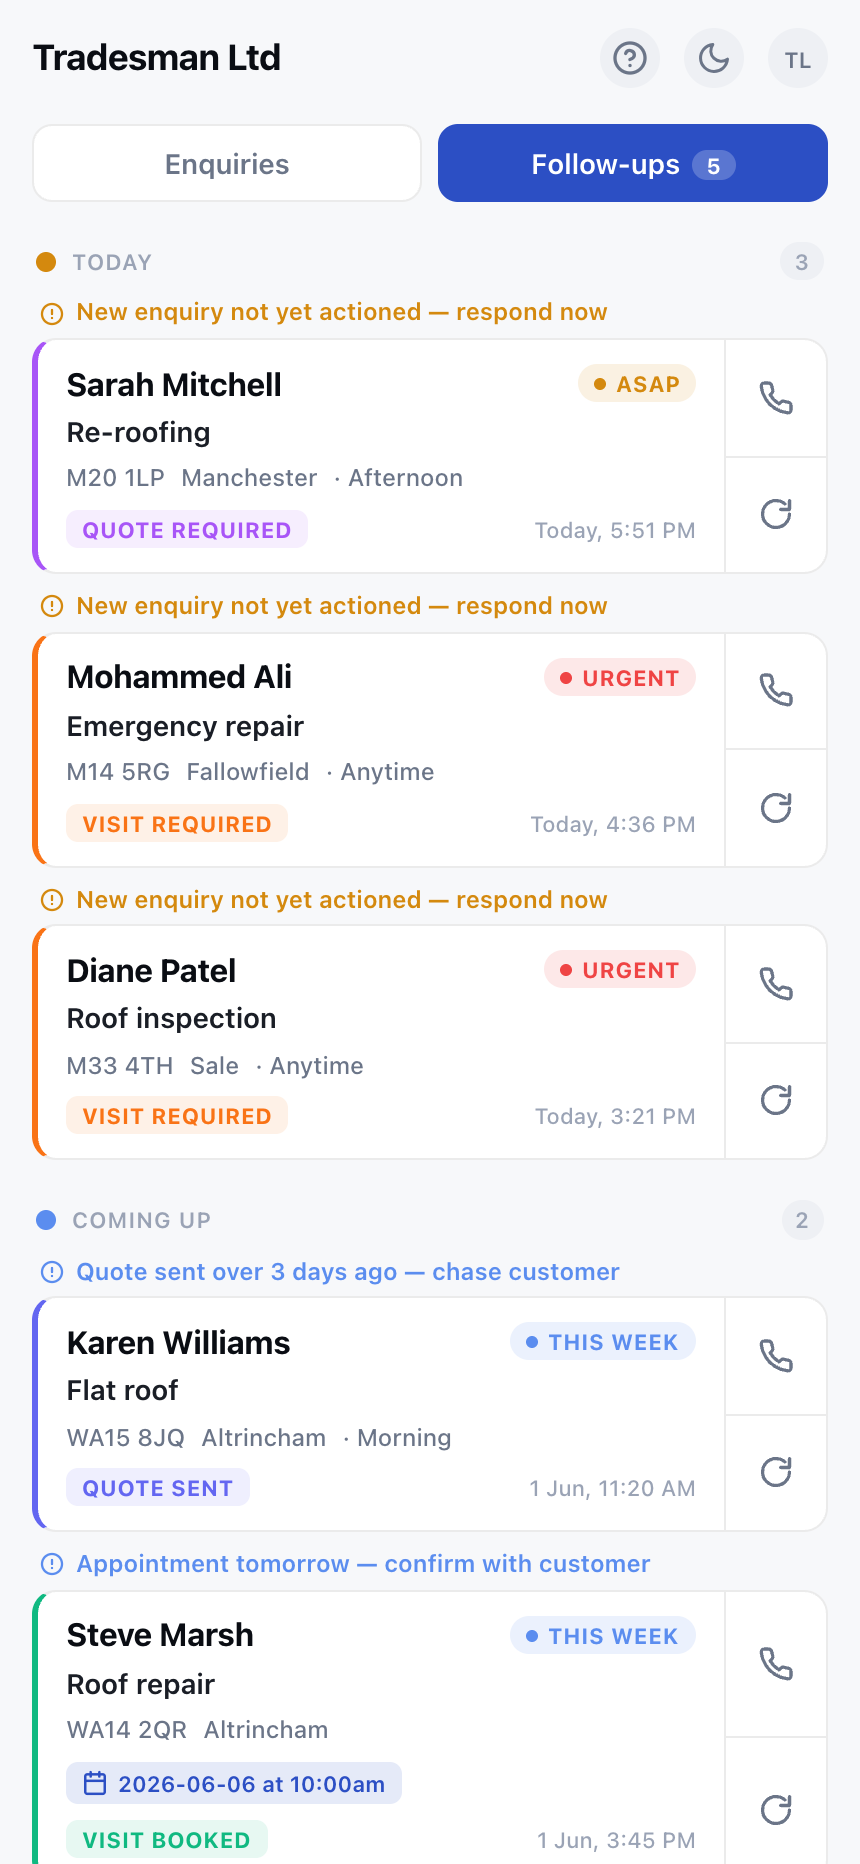
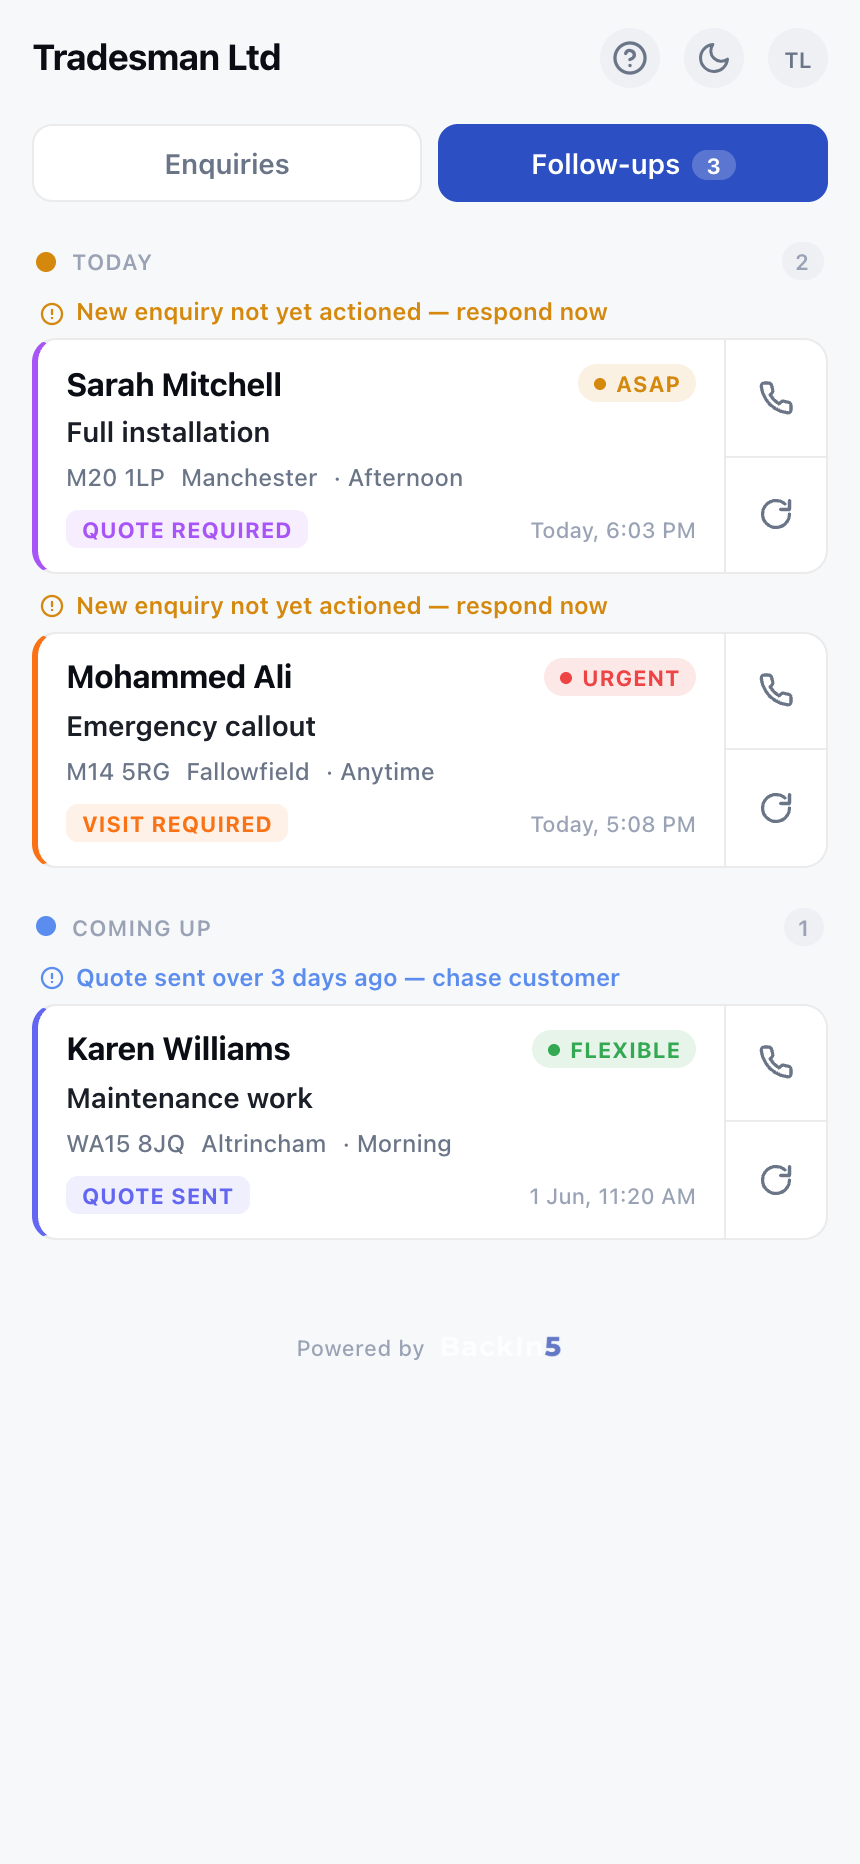
Tighten phone-shot grid, replace channels fake quote card with real screenshot, refresh shots
- Three-shot grid now 3-col on desktop, tighter gap (24px), smaller phone frames (210px max)
- Wide / centred shot reduced to 200px so trio reads as one group
- Channels section: replaced fake 'New Quote - Dashboard' card with real
  main-overview shot in a small phone frame
- New sts-phone-frame-sm variant for in-line uses
- Mobile-first responsive: 2 cols on tablet, 1 col on phone
- Refreshed all 8 screenshots with new 5-enquiry generic demo

diff --git a/see-the-system.css b/see-the-system.css
@@ -871,11 +871,19 @@
    Dashboard screenshots — Sts* shot grid
    ============================================================ */
 .sts-shots-grid {
-  margin-top: 48px;
+  margin: 36px auto 0;
   display: grid;
-  grid-template-columns: repeat(2, 1fr);
-  gap: 40px;
+  grid-template-columns: repeat(3, 1fr);
+  gap: 24px 18px;
   align-items: start;
+  max-width: 920px;
+}
+
+/* Two-column variant for the dashboard band */
+.sts-shots-grid-2 {
+  grid-template-columns: repeat(2, 1fr);
+  max-width: 680px;
+  gap: 28px 24px;
 }
 
 .sts-shot-card {
@@ -883,23 +891,23 @@
   flex-direction: column;
   align-items: center;
   text-align: center;
-  gap: 18px;
+  gap: 12px;
 }
 
 .sts-shot-wide { grid-column: 1 / -1; }
 
-.sts-shot-wide .sts-phone-frame { max-width: 280px; }
-.sts-shot-wide .sts-shot-copy   { max-width: 540px; }
+.sts-shot-wide .sts-phone-frame { max-width: 200px; }
+.sts-shot-wide .sts-shot-copy   { max-width: 480px; }
 
 .sts-phone-frame {
   width: 100%;
-  max-width: 300px;
+  max-width: 210px;
   background: #0E1116;
-  border-radius: 32px;
-  padding: 8px;
+  border-radius: 26px;
+  padding: 6px;
   box-shadow:
-    0 30px 60px -20px rgba(0, 0, 0, 0.55),
-    0 18px 36px -12px rgba(35, 65, 168, 0.18),
+    0 22px 44px -16px rgba(0, 0, 0, 0.55),
+    0 12px 24px -8px rgba(35, 65, 168, 0.18),
     0 0 0 1px rgba(255, 255, 255, 0.04) inset;
   position: relative;
   overflow: hidden;
@@ -908,19 +916,19 @@
 .canvas-light .sts-phone-frame {
   background: #1A1E26;
   box-shadow:
-    0 30px 60px -22px rgba(15, 22, 36, 0.35),
-    0 14px 30px -10px rgba(35, 65, 168, 0.12),
+    0 22px 40px -16px rgba(15, 22, 36, 0.3),
+    0 10px 22px -8px rgba(35, 65, 168, 0.12),
     0 0 0 1px rgba(0, 0, 0, 0.06);
 }
 
 .sts-phone-frame::before {
   content: '';
   position: absolute;
-  top: 14px; left: 50%;
+  top: 10px; left: 50%;
   transform: translateX(-50%);
-  width: 78px; height: 22px;
+  width: 58px; height: 16px;
   background: #0E1116;
-  border-radius: 0 0 14px 14px;
+  border-radius: 0 0 11px 11px;
   z-index: 2;
 }
 
@@ -928,19 +936,31 @@
   display: block;
   width: 100%;
   height: auto;
-  border-radius: 26px;
+  border-radius: 20px;
   position: relative;
   z-index: 1;
 }
 
+/* Smaller phone for in-line uses (e.g. channels result) */
+.sts-phone-frame-sm {
+  max-width: 180px;
+  border-radius: 22px;
+  padding: 5px;
+}
+.sts-phone-frame-sm::before {
+  width: 48px; height: 14px; top: 8px;
+  border-radius: 0 0 9px 9px;
+}
+.sts-phone-frame-sm img { border-radius: 18px; }
+
 .sts-shot-copy {
-  max-width: 360px;
-  padding: 0 8px;
+  max-width: 280px;
+  padding: 0 6px;
 }
 
 .sts-shot-title {
-  margin: 0 0 6px;
-  font-size: 19px;
+  margin: 0 0 4px;
+  font-size: 16px;
   font-weight: 700;
   letter-spacing: -0.01em;
   color: inherit;
@@ -951,44 +971,63 @@
 
 .sts-shot-sub {
   margin: 0;
-  font-size: 14.5px;
-  line-height: 1.55;
+  font-size: 13px;
+  line-height: 1.5;
   color: inherit;
   opacity: 0.78;
 }
 
 .canvas-dark .sts-shot-sub { color: #C7CDD9; opacity: 1; }
 
+/* Channels result: centred small phone */
+.sts-channels-shot {
+  display: flex;
+  justify-content: center;
+  margin-bottom: 16px;
+}
+
 /* Try the demo CTA */
 .sts-demo-cta {
-  margin-top: 56px;
+  margin-top: 44px;
   display: flex;
   align-items: center;
   justify-content: center;
   flex-wrap: wrap;
-  gap: 14px 18px;
+  gap: 12px 16px;
   text-align: center;
 }
 
 .sts-demo-note {
-  font-size: 13.5px;
+  font-size: 13px;
   opacity: 0.7;
   color: #C7CDD9;
 }
 
 .canvas-light .sts-demo-note { color: #4A5366; opacity: 0.75; }
 
-/* Mobile layout */
-@media (max-width: 760px) {
+/* Tablet and below */
+@media (max-width: 860px) {
+  .sts-shots-grid {
+    grid-template-columns: repeat(2, 1fr);
+    gap: 24px 16px;
+    max-width: 540px;
+  }
+  .sts-shot-wide { grid-column: 1 / -1; }
+}
+
+/* Mobile */
+@media (max-width: 560px) {
   .sts-shots-grid {
     grid-template-columns: 1fr;
-    gap: 44px;
-    margin-top: 36px;
+    gap: 28px;
+    margin-top: 28px;
+    max-width: 360px;
   }
-  .sts-shot-wide .sts-phone-frame,
-  .sts-phone-frame { max-width: 260px; }
-  .sts-shot-title { font-size: 17.5px; }
-  .sts-shot-sub   { font-size: 14px; }
-  .sts-demo-cta   { margin-top: 36px; flex-direction: column; gap: 10px; }
+  .sts-shots-grid-2 { gap: 28px; }
+  .sts-phone-frame,
+  .sts-shot-wide .sts-phone-frame { max-width: 220px; }
+  .sts-shot-title { font-size: 16px; }
+  .sts-shot-sub   { font-size: 13.5px; }
+  .sts-demo-cta   { margin-top: 28px; flex-direction: column; gap: 8px; }
   .sts-demo-cta .btn { width: 100%; max-width: 320px; justify-content: center; }
 }

diff --git a/see-the-system.jsx b/see-the-system.jsx
@@ -581,28 +581,16 @@ function StsChannels() {
             <div className="sts-funnel-line" />
           </div>
 
-          {/* Result */}
+          {/* Result — real dashboard screenshot in a phone frame */}
           <div className="sts-channels-result">
-            <div className="sts-result-card">
-              <div className="sts-result-header">
-                <span className="sts-status-dot" style={{ background: 'var(--ok)' }} />
-                <span className="sts-result-title">New Quote - Dashboard</span>
-                <span className="sts-result-time">Just now</span>
-              </div>
-              <div className="sts-result-body">
-                <div className="sts-result-row"><strong>Customer:</strong> Mike T, SE London</div>
-                <div className="sts-result-row"><strong>Job:</strong> Flat roof replacement, 6x4m garage</div>
-                <div className="sts-result-row"><strong>Contact:</strong> 07XXX XXX XXX</div>
-                <div className="sts-result-row"><strong>Source:</strong> Website enquiry</div>
-              </div>
-              <div className="sts-result-actions">
-                <span className="btn btn-primary btn-sm">View Quote</span>
-                <span className="btn btn-ghost-light btn-sm">Call Back</span>
+            <div className="sts-channels-shot">
+              <div className="sts-phone-frame sts-phone-frame-sm">
+                <img src="assets/dashboard/01-main-overview.png" alt="Every enquiry arrives organised on your BackIn5 dashboard" loading="lazy" />
               </div>
             </div>
             <div className="sts-result-note">
               <IconCheck size={14} />
-              <span>If a customer does not know an answer, they can skip - you will not lose the enquiry</span>
+              <span>Every enquiry lands in one place - already sorted by what needs doing next</span>
             </div>
           </div>
         </div>
@@ -731,7 +719,7 @@ function StsBoard() {
           </p>
         </div>
 
-        <div className="sts-shots-grid">
+        <div className="sts-shots-grid sts-shots-grid-2">
           <div ref={ph1Ref} className="sts-shot-card sts-reveal">
             <div className="sts-phone-frame">
               <img src="assets/dashboard/01-main-overview.png" alt="BackIn5 dashboard - enquiry list grouped by action tag" loading="lazy" />

diff --git a/see-the-system.html b/see-the-system.html
@@ -6,7 +6,7 @@
   <title>See The System - BackIn5</title>
   <meta name="description" content="Here's exactly what happens when a customer contacts you. No guessing. No fluff. Just the full picture." />
   <link rel="stylesheet" href="styles.css?v=19" />
-  <link rel="stylesheet" href="see-the-system.css?v=20" />
+  <link rel="stylesheet" href="see-the-system.css?v=21" />
 </head>
 <body>
   <div id="root"></div>
@@ -17,7 +17,7 @@
 
   <!-- Only load the icons (small) + this page's own component file -->
   <script type="text/babel" src="icons.jsx"></script>
-  <script type="text/babel" src="see-the-system.jsx?v=20"></script>
+  <script type="text/babel" src="see-the-system.jsx?v=21"></script>
 
   <script type="text/babel">
     const root = ReactDOM.createRoot(document.getElementById('root'));
